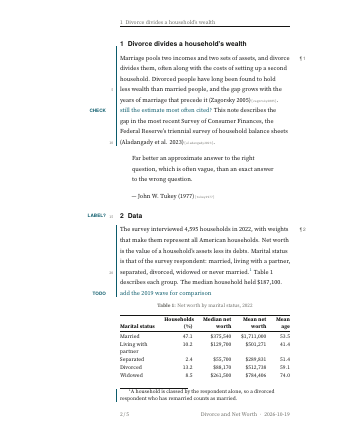
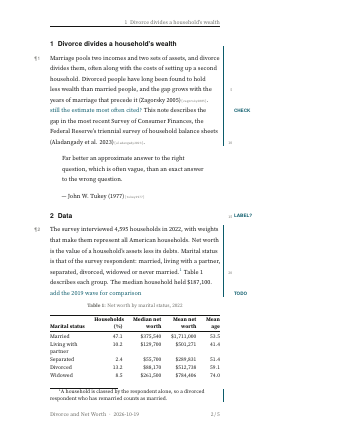
review: one-sided, with the writing margin always on the right
The 3in margin now sits on the right of every page rather than
alternating with twoside. Markup follows the page model: one-sided,
line numbers (\rightlinenumbers*), flags and changebars (rightbars) stay
on the right and paragraph numbers on the left, with no changepage; a
two-sided markup style keeps them in the outer margin as before.

Claude-Session: https://claude.ai/code/session_01FnLmm27Lawe9nPmYW5pveL

diff --git a/NEWS.md b/NEWS.md
@@ -1,7 +1,8 @@
 # docdesigner (development version)
 
 - **New style: `review`.** A working draft printed to be read and marked up by
-  hand, in the academic set. A 3in outer margin and space between paragraphs
+  hand, in the academic set. A 3in right-hand margin on every page and space
+  between paragraphs
   for handwritten insertions; a short, ragged, unhyphenated measure; line
   numbers (every 5th, per page) and paragraph numbers (continuous) to find a
   mark again in the source; a map of the argument (every heading, its words
@@ -27,7 +28,8 @@
 - **New running-head values and tokens.** `folio` prints page of pages;
   `stamp` the running title, version and date. `header_footer.alternate`
   mirrors the slots under `page.twoside`, so `right` is always the outer
-  edge. `header_footer.section_chars` makes `section` name the first level-1
+  edge, and the markup (line numbers, flags, changebars) follows the outer
+  margin; one-sided, it stays on the right. `header_footer.section_chars` makes `section` name the first level-1
   section starting on the page (else the one carried over), numbered and cut
   to length. `title.warning.auto`, or `warning: auto` in the document, prints
   a stamped "Review draft" line.

diff --git a/README.md b/README.md
@@ -173,10 +173,10 @@ output:
 ---
 ```
 
-- A 3in outer margin, and space between paragraphs, for handwritten
-  insertions. A short ragged measure with no hyphenation.
-- Line numbers (every 5th, restarting on each page) in the outer margin and
-  paragraph numbers in the inner one, so "p. 7, l. 15" or "para. 14" names a
+- A 3in right margin on every page, and space between paragraphs, for
+  handwritten insertions. A short ragged measure with no hyphenation.
+- Line numbers (every 5th, restarting on each page) in the right margin and
+  paragraph numbers in the left one, so "p. 7, l. 15" or "para. 14" names a
   spot in this printout and the next.
 - The body opens with a **map of the argument**: every heading to two levels,
   its words and its page. Write headings as claims; a heading of fewer than
